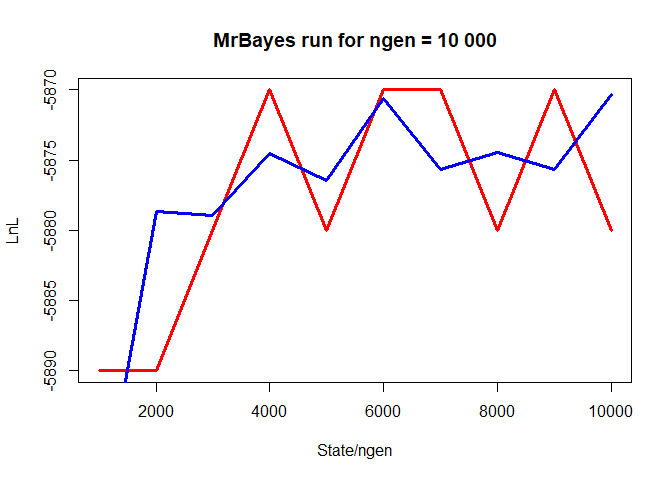
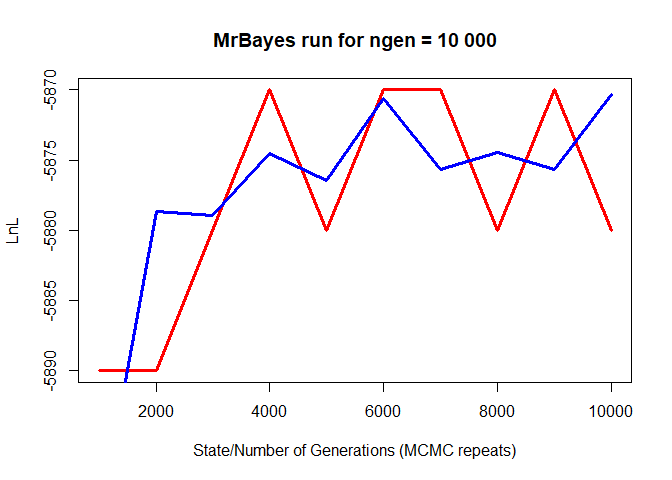
Add files via upload

Changed region(s): [[0.2812, 0.9062, 0.7812, 0.9688]]

diff --git a/Tutorial_2/Tut2_phylogenies.md b/Tutorial_2/Tut2_phylogenies.md
@@ -65,7 +65,7 @@ converted.
 
 **This is the output from jModelTest:**
 
-<span style="background-color:lightgreen"> Model selected:
+Model selected:
 
 Model = TIM3+G  
 partition = 012032  
@@ -82,8 +82,6 @@ R(d) \[CG\] = 0.5943
 R(e) \[CT\] = 3.0841  
 R(f) \[GT\] = 1.0000  
 gamma shape = 0.4520
-
-</span>
 
 > We need to incorporate this into the template for a MrBayes block
 > below. The sumt and sump burnin values discard the first 25% of trees
@@ -129,8 +127,8 @@ end;
   - Only one outgroup sequence name can be indicated  
   - “revmatpr” refers to the 6 substitution rates, if applicable.
     (A\<-\>C, A\<-\>G, A\<-\>T, C\<-\>G, C\<-\>T, and G\<-\>T)  
-  - statefreqpr = dirichlet(x, y, z, a), where you include the
-    probability frequencies of each base (A, C, G, and T)  
+  - statefreqpr = dirichlet(x, y, z, a), where you include the character
+    state frequencies of each base (A, C, G, and T)  
   - shapepr = fixed(gamma value)  
   - If there is a kappa value, then include tratiopr = fixed(kappa
     value)  
@@ -203,15 +201,15 @@ the ESS scores for the 20 million run are \> 200.
 > Data Table), and subsequently saved as a .csv file so that we can plot
 > these in R. These two files are in the MrBayes folder, saved as
 > **mrbayes\_10K\_run.csv** and **mrbayes\_20M\_run.csv**. Trace plots
-> should look like a “fuzzy caterpillar”, as in the 20 million
+> should look like a “fuzzy caterpillar”, as shown in the 20 million
 > generation run.
 
 ``` r
 # Plot the 10 000 generation run:
 bayes10K.run = read.csv("https://raw.githubusercontent.com/CJMvS/CBC_Tutorials/master/Tutorial_2/MrBayes/mrbayes_10K_run.csv")
-# Plot run 1
-plot(bayes10K.run$state_run1, bayes10K.run$LnL_run1, lwd = 3, type = "l", col = "red", main = "MrBayes run for ngen = 10 000", xlab = "State/ngen", ylab = "LnL")
-# Add run 2
+# Plot run 1 (red)
+plot(bayes10K.run$state_run1, bayes10K.run$LnL_run1, lwd = 3, type = "l", col = "red", main = "MrBayes run for ngen = 10 000", xlab = "State/Number of Generations (MCMC repeats)", ylab = "LnL")
+# Add run 2 (blue)
 points(bayes10K.run$state_run2, bayes10K.run$LnL_run2, lwd = 3, pch=16, type = "l", col="blue")
 ```
 
@@ -221,14 +219,14 @@ points(bayes10K.run$state_run2, bayes10K.run$LnL_run2, lwd = 3, pch=16, type = "
 # Plot the 2 million generation run:
 bayes20M.run = read.csv("https://raw.githubusercontent.com/CJMvS/CBC_Tutorials/master/Tutorial_2/MrBayes/mrbayes_20M_run.csv")
 # Run 1
-plot(bayes20M.run$state_run1, bayes20M.run$LnL_run1, lwd = 2, type = "l", col = "red", main = "MrBayes run for ngen = 20 million, RUN 1", xlab = "State/ngen", ylab = "LnL")
+plot(bayes20M.run$state_run1, bayes20M.run$LnL_run1, lwd = 2, type = "l", col = "red", main = "MrBayes run for ngen = 20 million, RUN 1", xlab = "State/Number of Generations (MCMC repeats)", ylab = "LnL")
 ```
 
 ![](FigsTut2/unnamed-chunk-1-2.png)<!-- -->
 
 ``` r
 # Run 2
-plot(bayes20M.run$state_run2, bayes20M.run$LnL_run2, lwd = 2, type = "l", col="blue", main = "MrBayes run for ngen = 20 million, RUN 2", xlab = "State/ngen", ylab = "LnL")
+plot(bayes20M.run$state_run2, bayes20M.run$LnL_run2, lwd = 2, type = "l", col="blue", main = "MrBayes run for ngen = 20 million, RUN 2", xlab = "State/Number of Generations (MCMC repeats)", ylab = "LnL")
 ```
 
 ![](FigsTut2/unnamed-chunk-1-3.png)<!-- -->
